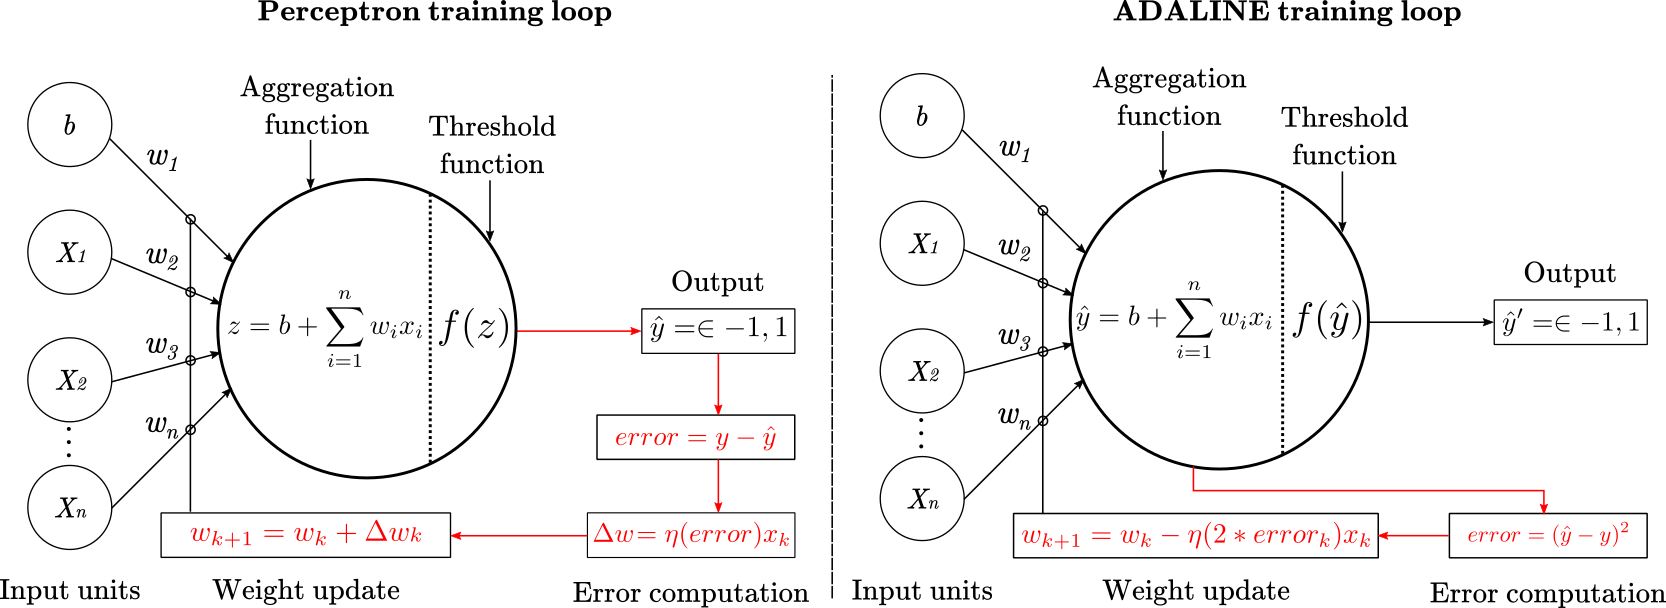
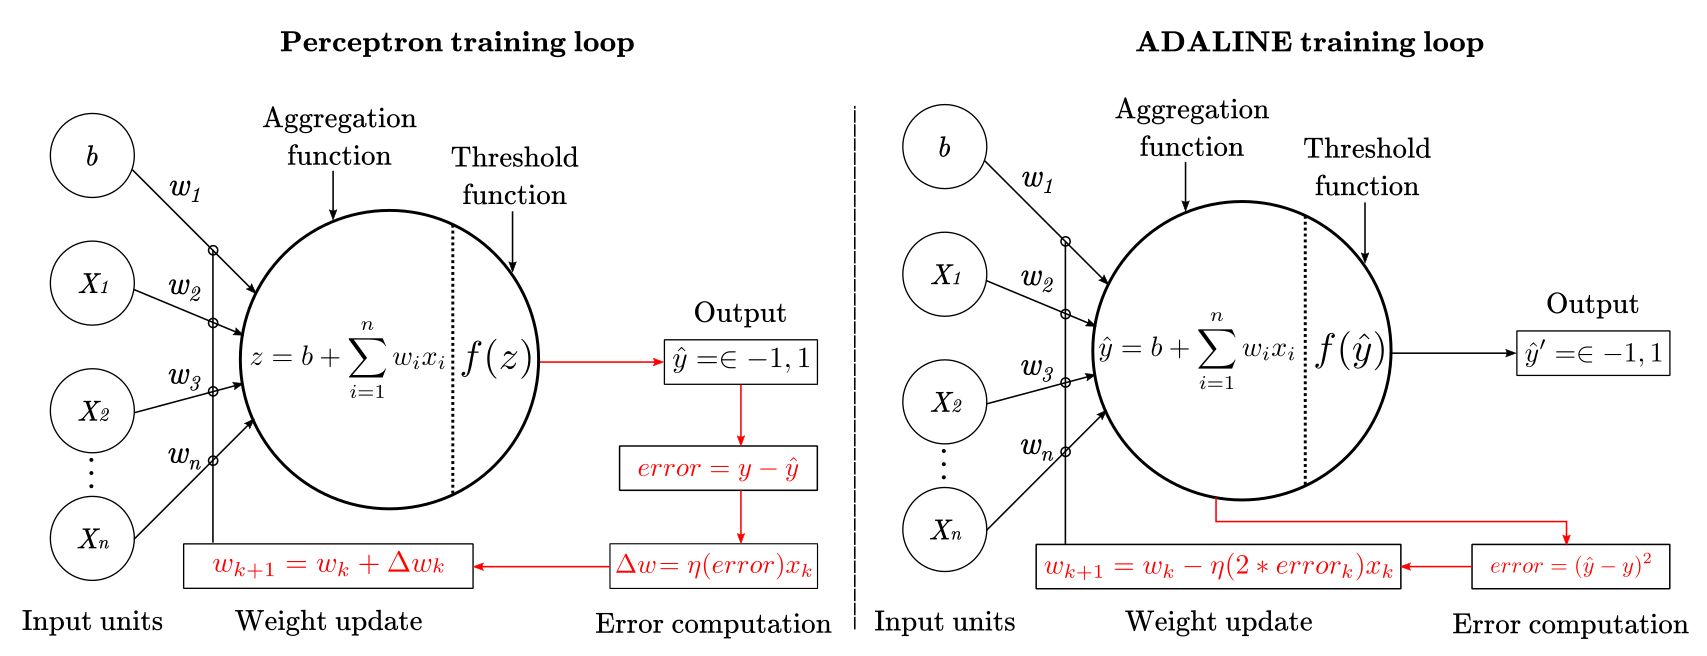
resize adaline; change adaline-math image

diff --git a/_posts/2020-03-10-the-adaline.md b/_posts/2020-03-10-the-adaline.md
@@ -61,7 +61,7 @@ At this point, you may be wondering what's the difference between the perceptron
 
 **Figure 1**
 
-<img src="/assets/post-6/adaline-math.png" width="80%"/>
+<img src="/assets/post-6/adaline-math.png" width="100%"/>
 
 ### The ADALINE error surface
 
@@ -75,7 +75,7 @@ In a single iteration, the error in the ADALINE is calculated as $(y - \hat{y})^
 
 **Figure 2**
 
-<img src="/assets/post-6/least-squares.png" width="80%"/>
+<img src="/assets/post-6/least-squares.png" width="60%"/>
 
 The goal of the least-squares algorithm is to generate as little cumulative error as possible. This equals to find the line that best fit the points in the cartesian plane. Since the weights are the *only values* we can adjust to change the shape of the line, **different pairs of weights will generate different means of squared errors**. This is our gateway to the idea of finding a *minima* in an error surface. Imagine the following: you are trying to find the set of weights, $w_1$ and $w_2$ that would generate the smallest mean of squared error. Your weights can take values ranging from 0 to 1, and your error can go from 0 to 1 (or 0% to 100% thinking proportionally). Now, you decide to plot the mean of squared errors against all possible combinations of $w_1$ and $w_2$. **Figure 3** shows the resulting surface:
 
@@ -182,7 +182,7 @@ Imagine that you are hiker at the top of a mountain in the side of a valley. Sim
 
 **Figure 5**
 
-<img src="/assets/post-6/gradient-hiker.png" width="80%"/>
+<img src="/assets/post-6/gradient-hiker.png" width="60%"/>
 
 
 For conciseness, let's define the error of the network as function $E$.  
